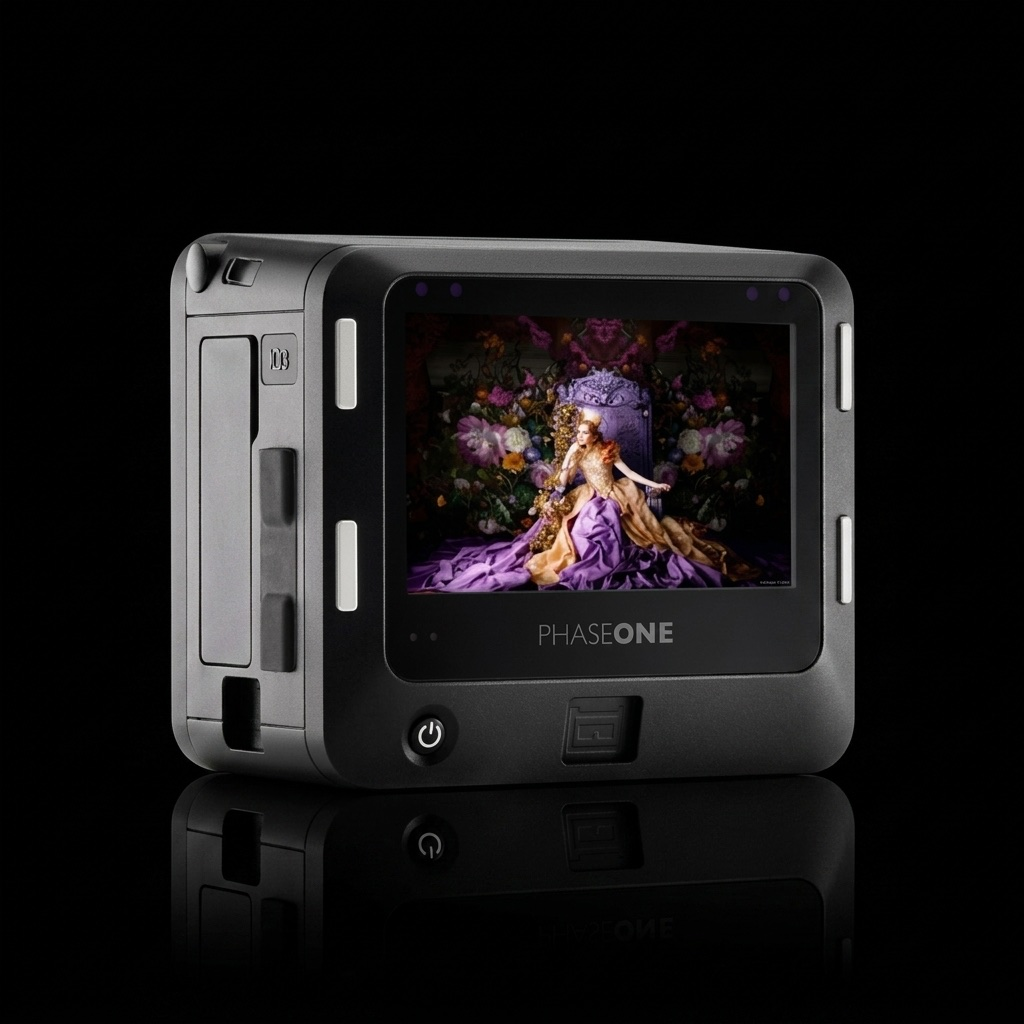
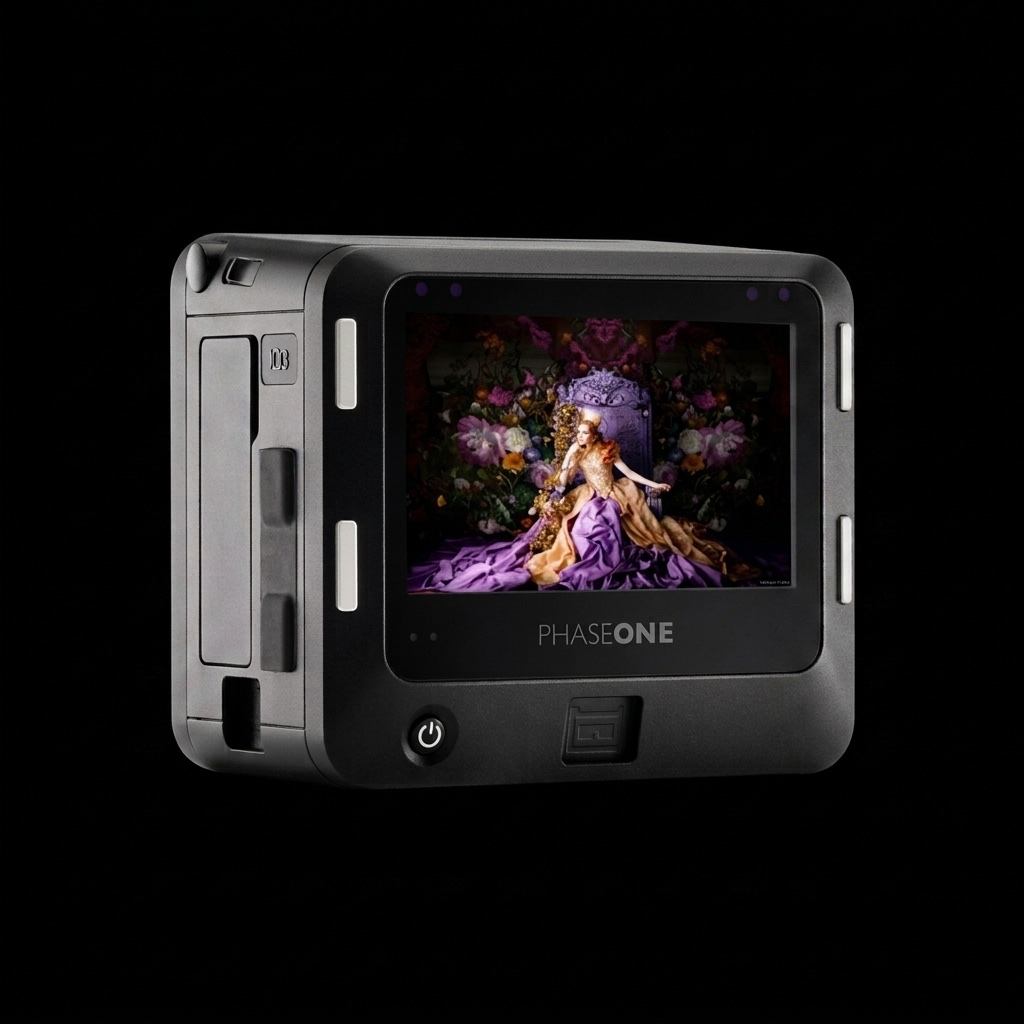
feat: correcciones de copy + sección 'Para qué lo puedes usar' + imagen sin reflejo + límite de altura del hero
Bloque A (copy):
- A1: 'respaldo digital' -> 'sistema completo 645DF+ con respaldo IQ3 100'
  en description; whatsappMessage con campos editables (tipo de
  producción, fechas)
- A2: CTA 'Cotizar por WhatsApp' -> 'Consultar disponibilidad'
- A3: nota de cierre actualizada
- A4: campo useCases (5 casos de uso) + sección '¿Para qué lo puedes
  usar?' entre specs técnicos y 'Qué incluye el kit' (sin tocar esa
  sección)

Bloque B (imagen/layout):
- Imagen hero: 'IQ3 100 Sin Reflejo.jpeg' (nombre real con espacios),
  recomprimida de 457KB a 155KB en calidad 85, 1024x1024
- Contenedor hero: de aspect-square (sin límite) a altura fija
  340px mobile / 460px desktop (max-height puro no funciona con fill+
  relative sin otra fuente de altura), object-contain intacto — sin
  crop ni deformación

No se toca products.ts, package.json, ni la sección 'Qué incluye el kit'.
Sin precio en ningún lado.

Claude-Session: https://claude.ai/code/session_018eEYi5fv5sgvruxiZhKjW1

Changed region(s): [[0.1562, 0.7812, 0.3125, 0.875], [0.7812, 0.75, 0.8438, 0.875], [0.4062, 0.8125, 0.4375, 0.8438]]

diff --git a/src/app/alquiler/page.tsx b/src/app/alquiler/page.tsx
@@ -61,7 +61,7 @@ export default function AlquilerPage() {
               className="rounded-2xl p-8 sm:p-10 border"
               style={{ backgroundColor: "#1A1A1B", borderColor: "#2a2a2b" }}
             >
-              <div className="relative aspect-square rounded-xl overflow-hidden mb-8">
+              <div className="relative h-[340px] sm:h-[460px] rounded-xl overflow-hidden mb-8">
                 <Image
                   src={item.image}
                   alt="Phase One IQ3 100 disponible para alquiler en Colombia"
@@ -95,6 +95,24 @@ export default function AlquilerPage() {
                     style={{ borderColor: "#2a2a2b", backgroundColor: "#0F0F10", color: "#F5F5F5" }}
                   >
                     {spec}
+                  </li>
+                ))}
+              </ul>
+
+              <h3
+                className="text-lg sm:text-xl mb-5"
+                style={{ fontFamily: "var(--font-heading)", color: "#F5F5F5" }}
+              >
+                ¿Para qué lo puedes usar?
+              </h3>
+              <ul className="grid grid-cols-1 sm:grid-cols-2 gap-3 mb-10">
+                {item.useCases.map((useCase) => (
+                  <li
+                    key={useCase}
+                    className="rounded-xl border py-3 px-4 text-sm"
+                    style={{ borderColor: "#2a2a2b", backgroundColor: "#0F0F10", color: "#F5F5F5" }}
+                  >
+                    {useCase}
                   </li>
                 ))}
               </ul>
@@ -144,7 +162,7 @@ export default function AlquilerPage() {
                 style={{ backgroundColor: "#4CB4E7", color: "#0F0F10", fontFamily: "var(--font-label)", letterSpacing: "0.05em" }}
               >
                 <MessageCircle size={18} />
-                Cotizar por WhatsApp
+                Consultar disponibilidad
               </a>
             </div>
           ))}
@@ -155,8 +173,8 @@ export default function AlquilerPage() {
       <section className="py-16 px-4 sm:px-6 lg:px-8 border-t" style={{ borderColor: "#2a2a2b" }}>
         <div className="mx-auto max-w-3xl text-center">
           <p className="text-sm sm:text-base leading-relaxed" style={{ color: "#B7B8B9" }}>
-            Esta es la primera pieza de nuestra línea de alquiler de equipo — más
-            opciones en camino.
+            Este es el comienzo de la línea de alquiler profesional de MedPhoto.
+            Próximamente incorporaremos nuevos equipos y sistemas especializados.
           </p>
         </div>
       </section>

diff --git a/src/data/rentals.ts b/src/data/rentals.ts
@@ -7,6 +7,7 @@ export interface RentalItem {
   hook: string;
   description: string;
   specs: string[];
+  useCases: string[];
   whatsappMessage: string;
   status: "active" | "coming-soon";
   image: string;
@@ -21,14 +22,22 @@ export const rentals: RentalItem[] = [
     hook: "¿Tu próximo shoot necesita 100MP?",
     image: "/alquiler/phase-one-iq3-100.jpg",
     description:
-      "Alquila el respaldo digital Phase One IQ3 100 por los días que lo necesites, sin comprometer los $50-60M+ COP que cuesta un sistema Phase One propio.",
+      "Alquila el sistema completo Phase One 645DF+ con respaldo digital IQ3 100 por los días que lo necesites, sin comprometer los $50-60M+ COP que cuesta un sistema Phase One propio.",
     specs: [
       "Sensor CMOS 101MP formato medio 53.7×40.4mm",
       "15 stops de rango dinámico",
       "ISO 50–12.800",
       "Exposiciones largas hasta 60 minutos",
     ],
-    whatsappMessage: "Hola, quiero cotizar el alquiler del respaldo Phase One IQ3 100",
+    useCases: [
+      "Moda y belleza de alta resolución",
+      "Producto y still life",
+      "Arquitectura e interiorismo",
+      "Campañas publicitarias",
+      "Reproducción de arte y patrimonio",
+    ],
+    whatsappMessage:
+      "Hola, quiero cotizar el alquiler del sistema Phase One IQ3 100. Mi proyecto es para [tipo de producción], necesito el equipo del [fecha] al [fecha].",
     status: "active",
     includes: [
       {
